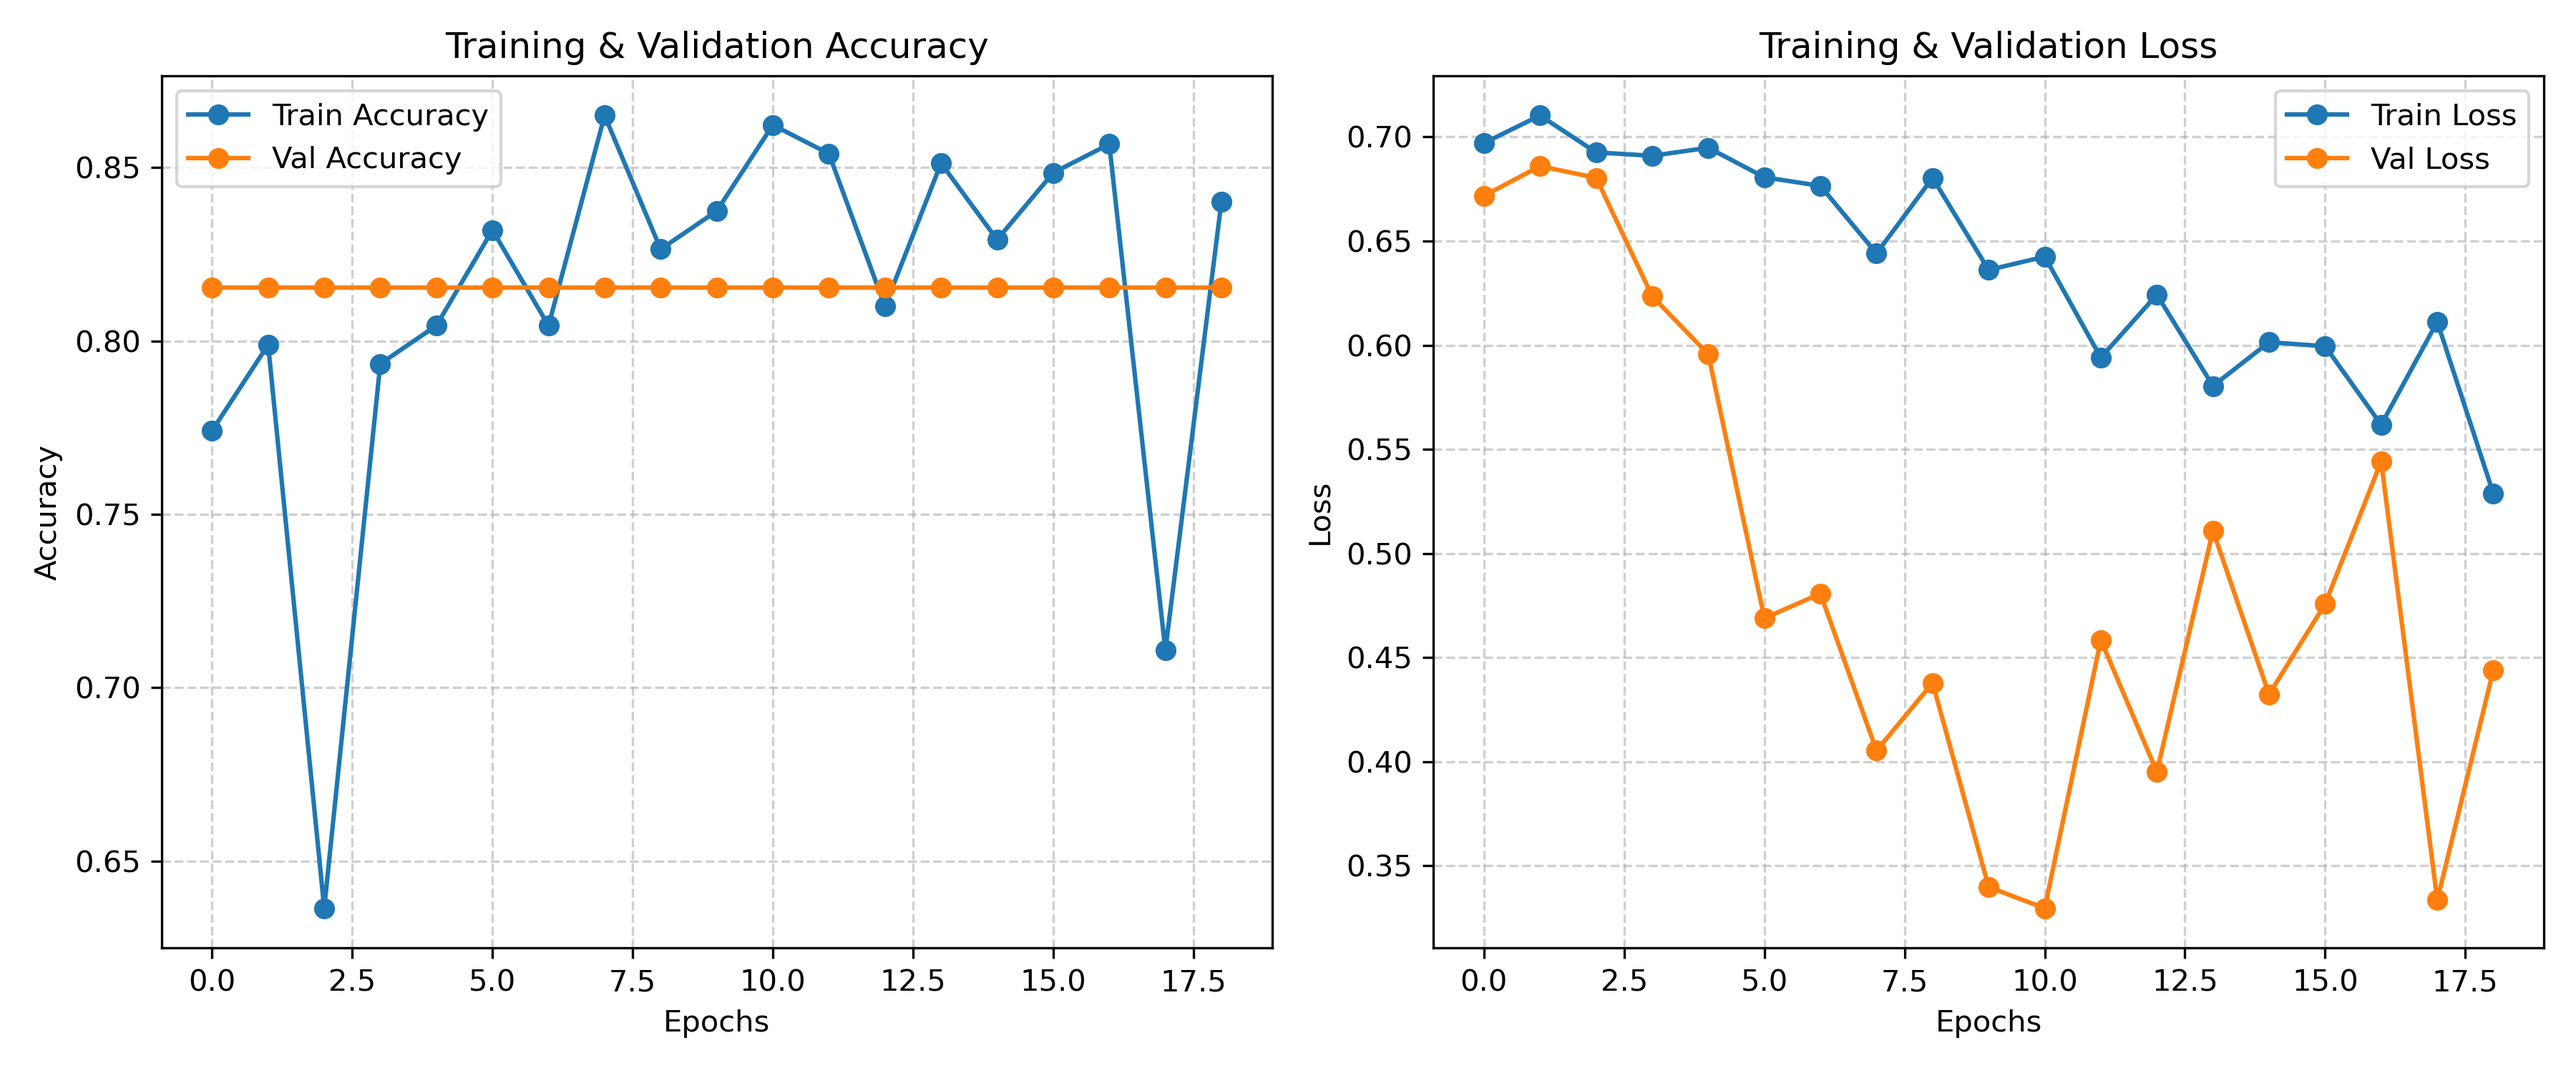
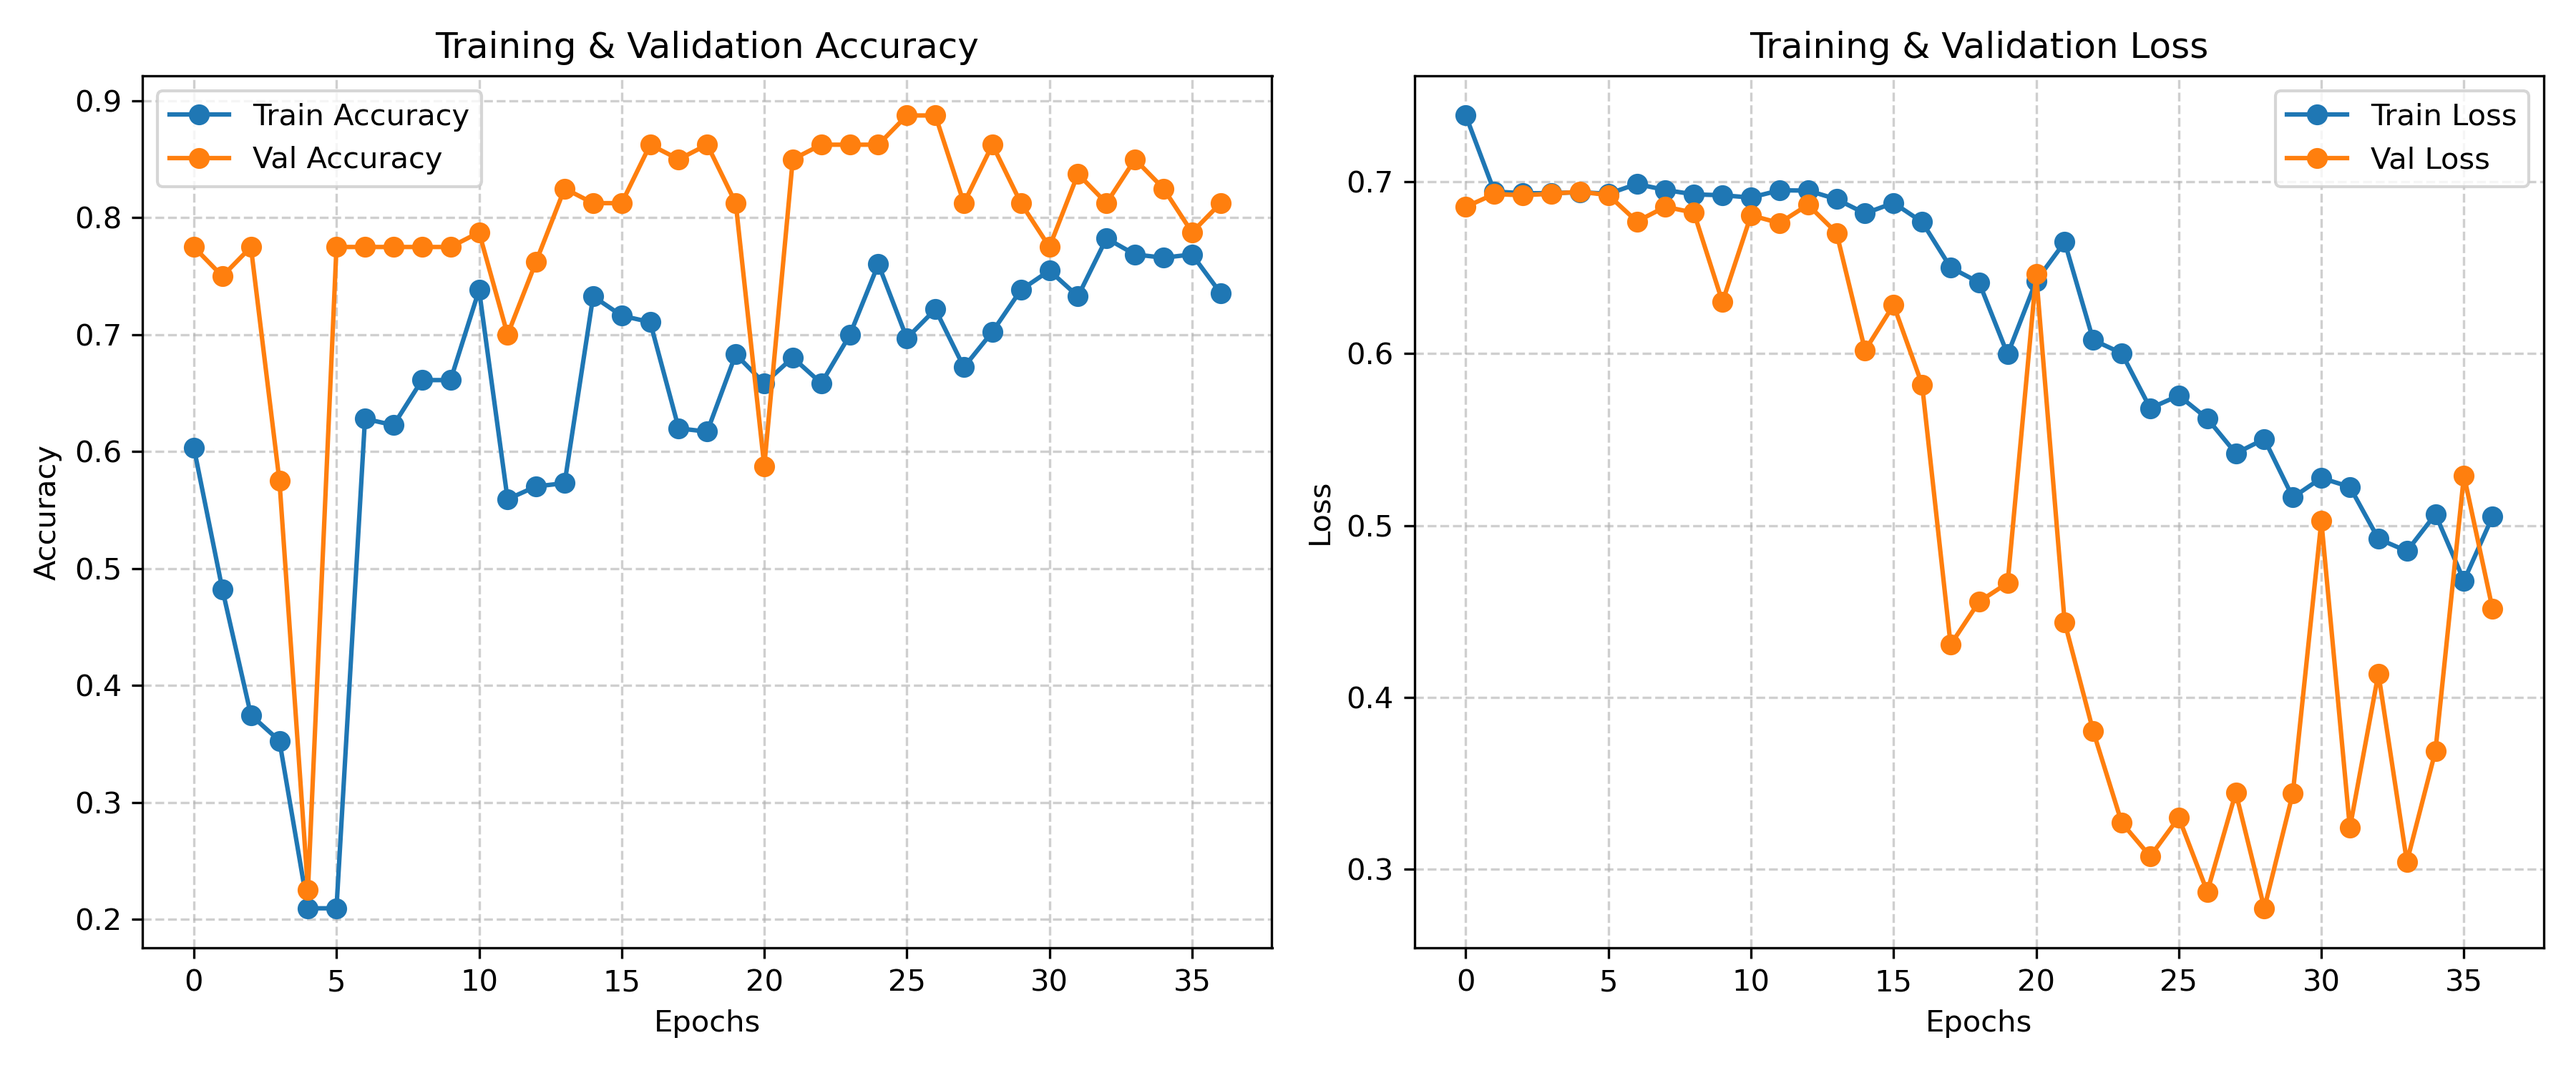
add the dataset wave

diff --git a/backend-parkinson/train_cnn_spiral.py b/backend-parkinson/train_cnn_spiral.py
@@ -13,90 +13,153 @@ import seaborn as sns
 # CONFIG
 # -----------------------------
 IMG_SIZE = 128
-BATCH_SIZE = 4
+BATCH_SIZE = 8
 EPOCHS = 50
 
-train_dir = "data/spiral/train"
-test_dir = "data/spiral/test"
+spiral_train_dir = "data/spiral/train"
+spiral_test_dir = "data/spiral/test"
+wave_train_dir = "data/wave/train"
+wave_test_dir = "data/wave/test"
 
 # -----------------------------
-# DATASET GENERATORS
+# LOAD ALL IMAGES INTO ARRAYS (Better approach for small datasets)
 # -----------------------------
-train_datagen = ImageDataGenerator(
-    rescale=1./255,
-    rotation_range=5,
-    width_shift_range=0.05,
-    height_shift_range=0.05,
-    zoom_range=0.05,
+def load_images_from_directory(directory, img_size):
+    """Load all images from directory into numpy arrays"""
+    images = []
+    labels = []
+    class_names = sorted(os.listdir(directory))
+    class_to_idx = {name: idx for idx, name in enumerate(class_names)}
+    
+    for class_name in class_names:
+        class_dir = os.path.join(directory, class_name)
+        if not os.path.isdir(class_dir):
+            continue
+        for img_name in os.listdir(class_dir):
+            img_path = os.path.join(class_dir, img_name)
+            try:
+                img = tf.keras.preprocessing.image.load_img(
+                    img_path, 
+                    target_size=(img_size, img_size),
+                    color_mode='grayscale'
+                )
+                img_array = tf.keras.preprocessing.image.img_to_array(img)
+                images.append(img_array)
+                labels.append(class_to_idx[class_name])
+            except Exception as e:
+                print(f"Error loading {img_path}: {e}")
+    
+    return np.array(images), np.array(labels), class_to_idx
+
+# Load spiral data
+print("Loading Spiral data...")
+spiral_train_x, spiral_train_y, class_indices = load_images_from_directory(spiral_train_dir, IMG_SIZE)
+spiral_test_x, spiral_test_y, _ = load_images_from_directory(spiral_test_dir, IMG_SIZE)
+
+# Load wave data
+print("Loading Wave data...")
+wave_train_x, wave_train_y, _ = load_images_from_directory(wave_train_dir, IMG_SIZE)
+wave_test_x, wave_test_y, _ = load_images_from_directory(wave_test_dir, IMG_SIZE)
+
+# Combine datasets
+X_train = np.concatenate([spiral_train_x, wave_train_x], axis=0)
+y_train = np.concatenate([spiral_train_y, wave_train_y], axis=0)
+X_test = np.concatenate([spiral_test_x, wave_test_x], axis=0)
+y_test = np.concatenate([spiral_test_y, wave_test_y], axis=0)
+
+# Normalize
+X_train = X_train.astype("float32") / 255.0
+X_test = X_test.astype("float32") / 255.0
+
+# Shuffle training data
+shuffle_idx = np.random.permutation(len(X_train))
+X_train = X_train[shuffle_idx]
+y_train = y_train[shuffle_idx]
+
+print(f"\nClass indices: {class_indices}")
+print(f"Training samples: {len(X_train)} (Spiral: {len(spiral_train_x)}, Wave: {len(wave_train_x)})")
+print(f"Testing samples: {len(X_test)} (Spiral: {len(spiral_test_x)}, Wave: {len(wave_test_x)})")
+
+# -----------------------------
+# DATA AUGMENTATION
+# -----------------------------
+datagen = ImageDataGenerator(
+    rotation_range=10,
+    width_shift_range=0.1,
+    height_shift_range=0.1,
+    zoom_range=0.1,
     horizontal_flip=False,
 )
-
-test_datagen = ImageDataGenerator(rescale=1./255)
-
-train_gen = train_datagen.flow_from_directory(
-    train_dir,
-    target_size=(IMG_SIZE, IMG_SIZE),
-    color_mode='grayscale',
-    batch_size=BATCH_SIZE,
-    class_mode='binary',
-    shuffle=True
-)
-
-test_gen = test_datagen.flow_from_directory(
-    test_dir,
-    target_size=(IMG_SIZE, IMG_SIZE),
-    color_mode='grayscale',
-    batch_size=BATCH_SIZE,
-    class_mode='binary',
-    shuffle=False
-)
-
-print("Class indices:", train_gen.class_indices)
+datagen.fit(X_train)
 
 # -----------------------------
-# CLASS WEIGHTS (handle imbalance)
+# CLASS WEIGHTS
 # -----------------------------
-classes = list(train_gen.classes)
-class_weights = compute_class_weight('balanced', classes=np.unique(classes), y=classes)
+class_weights = compute_class_weight('balanced', classes=np.unique(y_train), y=y_train)
 class_weight_dict = dict(enumerate(class_weights))
-print("Class weights:", class_weight_dict)
+print(f"Class weights: {class_weight_dict}")
 
 # -----------------------------
-# LIGHTWEIGHT CNN
+# CNN MODEL
 # -----------------------------
 model = models.Sequential([
     layers.Input(shape=(IMG_SIZE, IMG_SIZE, 1)),
 
-    layers.Conv2D(16, (3,3), activation='relu', padding='same'),
-    layers.MaxPooling2D(2,2),
+    layers.Conv2D(32, (3, 3), activation='relu', padding='same'),
+    layers.BatchNormalization(),
+    layers.MaxPooling2D(2, 2),
 
-    layers.Conv2D(32, (3,3), activation='relu', padding='same'),
-    layers.MaxPooling2D(2,2),
+    layers.Conv2D(64, (3, 3), activation='relu', padding='same'),
+    layers.BatchNormalization(),
+    layers.MaxPooling2D(2, 2),
 
-    layers.Conv2D(64, (3,3), activation='relu', padding='same'),
-    layers.MaxPooling2D(2,2),
+    layers.Conv2D(128, (3, 3), activation='relu', padding='same'),
+    layers.BatchNormalization(),
+    layers.MaxPooling2D(2, 2),
+
+    layers.Conv2D(128, (3, 3), activation='relu', padding='same'),
+    layers.BatchNormalization(),
+    layers.MaxPooling2D(2, 2),
 
     layers.Flatten(),
+    layers.Dense(128, activation='relu'),
+    layers.Dropout(0.4),
     layers.Dense(64, activation='relu'),
     layers.Dropout(0.3),
     layers.Dense(1, activation='sigmoid')
 ])
 
 model.compile(
-    optimizer=tf.keras.optimizers.Adam(learning_rate=3e-4),
+    optimizer=tf.keras.optimizers.Adam(learning_rate=1e-4),
     loss='binary_crossentropy',
     metrics=['accuracy']
+)
+
+model.summary()
+
+# -----------------------------
+# CALLBACKS
+# -----------------------------
+checkpoint = ModelCheckpoint(
+    "cnn_combined_model_best.h5", 
+    monitor='val_accuracy', 
+    save_best_only=True,
+    verbose=1
+)
+earlystop = EarlyStopping(
+    monitor='val_loss', 
+    patience=10, 
+    restore_best_weights=True,
+    verbose=1
 )
 
 # -----------------------------
 # TRAINING
 # -----------------------------
-checkpoint = ModelCheckpoint("cnn_spiral_model_best.h5", monitor='val_accuracy', save_best_only=True)
-earlystop = EarlyStopping(monitor='val_loss', patience=8, restore_best_weights=True)
-
 history = model.fit(
-    train_gen,
-    validation_data=test_gen,
+    datagen.flow(X_train, y_train, batch_size=BATCH_SIZE),
+    steps_per_epoch=len(X_train) // BATCH_SIZE,
+    validation_data=(X_test, y_test),
     epochs=EPOCHS,
     callbacks=[checkpoint, earlystop],
     class_weight=class_weight_dict
@@ -105,21 +168,31 @@ history = model.fit(
 # -----------------------------
 # EVALUATION
 # -----------------------------
-val_loss, val_acc = model.evaluate(test_gen)
-print(f"\n✅ Validation Accuracy: {val_acc*100:.2f}%")
+print("\nEvaluating on combined test set:")
+test_loss, test_acc = model.evaluate(X_test, y_test)
+print(f"Test Accuracy: {test_acc * 100:.2f}%")
 
-model.save("cnn_spiral_model_final.h5")
-print("✅ Model saved as cnn_spiral_model_final.h5")
+# Separate evaluations
+print("\nEvaluating on Spiral test set:")
+spiral_loss, spiral_acc = model.evaluate(spiral_test_x / 255.0, spiral_test_y)
+print(f"Spiral Accuracy: {spiral_acc * 100:.2f}%")
+
+print("\nEvaluating on Wave test set:")
+wave_loss, wave_acc = model.evaluate(wave_test_x / 255.0, wave_test_y)
+print(f"Wave Accuracy: {wave_acc * 100:.2f}%")
+
+# Save final model
+model.save("cnn_combined_model_final.h5")
+print("\nModel saved as cnn_combined_model_final.h5")
 
 # -----------------------------
-# VISUALIZATIONS
+# TRAINING CURVES
 # -----------------------------
-# 1⃣ Accuracy & Loss curves
 plt.figure(figsize=(12, 5))
 
 plt.subplot(1, 2, 1)
-plt.plot(history.history['accuracy'], label='Train Accuracy', marker='o')
-plt.plot(history.history['val_accuracy'], label='Val Accuracy', marker='o')
+plt.plot(history.history['accuracy'], label='Train Accuracy')
+plt.plot(history.history['val_accuracy'], label='Val Accuracy')
 plt.title('Training & Validation Accuracy')
 plt.xlabel('Epochs')
 plt.ylabel('Accuracy')
@@ -127,8 +200,8 @@ plt.legend()
 plt.grid(True, linestyle='--', alpha=0.6)
 
 plt.subplot(1, 2, 2)
-plt.plot(history.history['loss'], label='Train Loss', marker='o')
-plt.plot(history.history['val_loss'], label='Val Loss', marker='o')
+plt.plot(history.history['loss'], label='Train Loss')
+plt.plot(history.history['val_loss'], label='Val Loss')
 plt.title('Training & Validation Loss')
 plt.xlabel('Epochs')
 plt.ylabel('Loss')
@@ -136,47 +209,25 @@ plt.legend()
 plt.grid(True, linestyle='--', alpha=0.6)
 
 plt.tight_layout()
-plt.savefig("training_curves.png", dpi=300)
+plt.savefig("training_curves_combined.png", dpi=300)
 plt.show()
 
 # -----------------------------
-# 2⃣ Confusion Matrix
+# CONFUSION MATRIX
 # -----------------------------
-test_gen.reset()
-y_pred = model.predict(test_gen)
+y_pred = model.predict(X_test)
 y_pred_classes = (y_pred > 0.5).astype(int).flatten()
-y_true = test_gen.classes
-labels = list(test_gen.class_indices.keys())
 
-cm = confusion_matrix(y_true, y_pred_classes)
-plt.figure(figsize=(5, 4))
+labels = list(class_indices.keys())
+
+cm = confusion_matrix(y_test, y_pred_classes)
+plt.figure(figsize=(6, 5))
 sns.heatmap(cm, annot=True, fmt='d', cmap='Blues', xticklabels=labels, yticklabels=labels)
-plt.title('Confusion Matrix')
+plt.title('Confusion Matrix (Combined Spiral + Wave)')
 plt.xlabel('Predicted')
 plt.ylabel('True')
-plt.savefig("confusion_matrix.png", dpi=300)
+plt.savefig("confusion_matrix_combined.png", dpi=300)
 plt.show()
 
-# -----------------------------
-# 3⃣ Classification Report
-# -----------------------------
-print("\n📋 Classification Report:\n")
-print(classification_report(y_true, y_pred_classes, target_names=labels))
-
-# -----------------------------
-# 4⃣ Sample Predictions Grid
-# -----------------------------
-plt.figure(figsize=(10, 8))
-for i in range(9):
-    img, label = test_gen[i % len(test_gen)][0][0], test_gen[i % len(test_gen)][1][0]
-    pred = model.predict(np.expand_dims(img, axis=0))[0][0]
-    pred_label = labels[int(pred > 0.5)]
-    true_label = labels[int(label)]
-    plt.subplot(3, 3, i + 1)
-    plt.imshow(img.squeeze(), cmap='gray')
-    plt.title(f"T:{true_label}\nP:{pred_label} ({pred*100:.1f}%)", fontsize=10)
-    plt.axis('off')
-
-plt.tight_layout()
-plt.savefig("sample_predictions.png", dpi=300)
-plt.show()
+print("\nClassification Report:\n")
+print(classification_report(y_test, y_pred_classes, target_names=labels))

diff --git a/backend-parkinson/predict_single.py b/backend-parkinson/predict_single.py
@@ -3,8 +3,7 @@ import numpy as np
 from tensorflow.keras.preprocessing import image
 
 # Load trained model
-model = tf.keras.models.load_model("cnn_spiral_model_final.h5")
-
+model = tf.keras.models.load_model("cnn_combined_model_final.h5")
 # Path of test image
 img_path = "testing_imgs/test1.png"
 
@@ -21,14 +20,14 @@ img_array = np.expand_dims(img_array, axis=0)
 img_array = img_array / 255.0
 
 # Predict
-pred = model.predict(img_array)
-
-class_names = ["healthy", "parkinson"]
+# Predict
+pred = model.predict(img_array, verbose=0)
 
 prob_parkinson = float(pred[0][0])
 prob_healthy = 1 - prob_parkinson
 
 predicted_class = "parkinson" if prob_parkinson > 0.5 else "healthy"
+confidence = round(max(prob_parkinson, prob_healthy) * 100, 2)
 
 print("✅ Predicted:", predicted_class)
 print(f"🧾 Probabilities → Healthy: {prob_healthy:.4f}, Parkinson: {prob_parkinson:.4f}")

diff --git a/backend-parkinson/app.py b/backend-parkinson/app.py
@@ -12,7 +12,7 @@ CORS(app)  # allow React frontend
 # -----------------------------
 # Load trained model
 # -----------------------------
-MODEL_PATH = "cnn_spiral_model_final.h5"
+MODEL_PATH = "cnn_combined_model_final.h5"  # Changed from spiral only
 
 model = tf.keras.models.load_model(MODEL_PATH)
 
